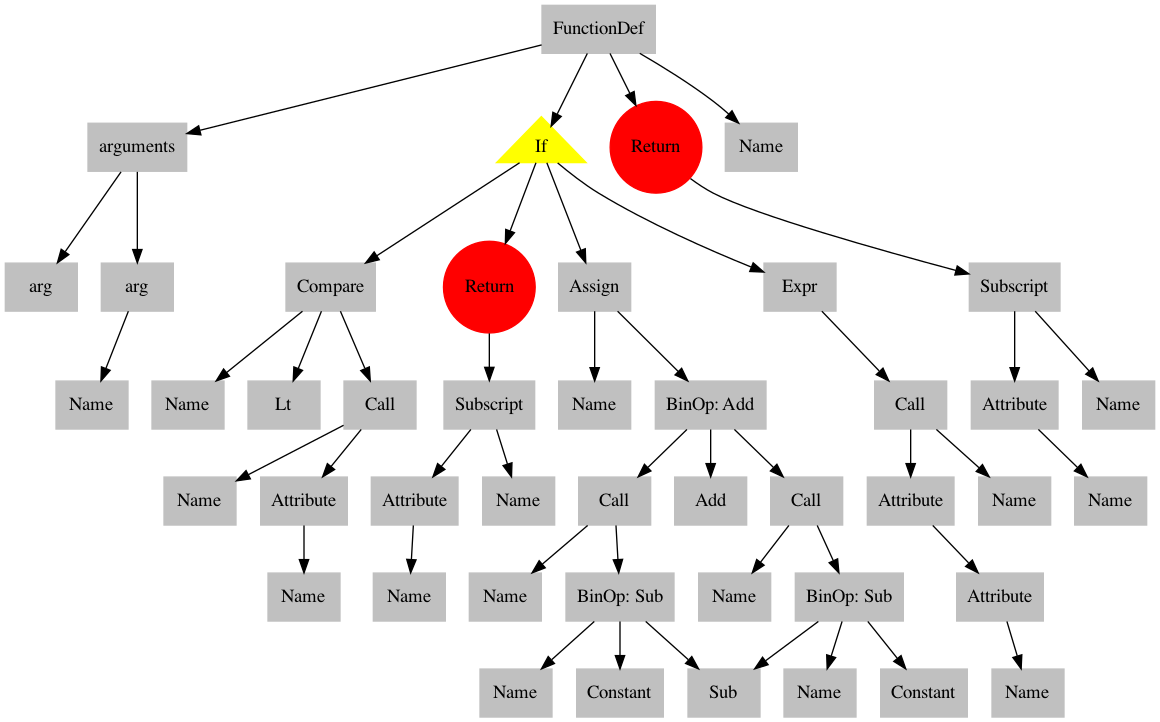
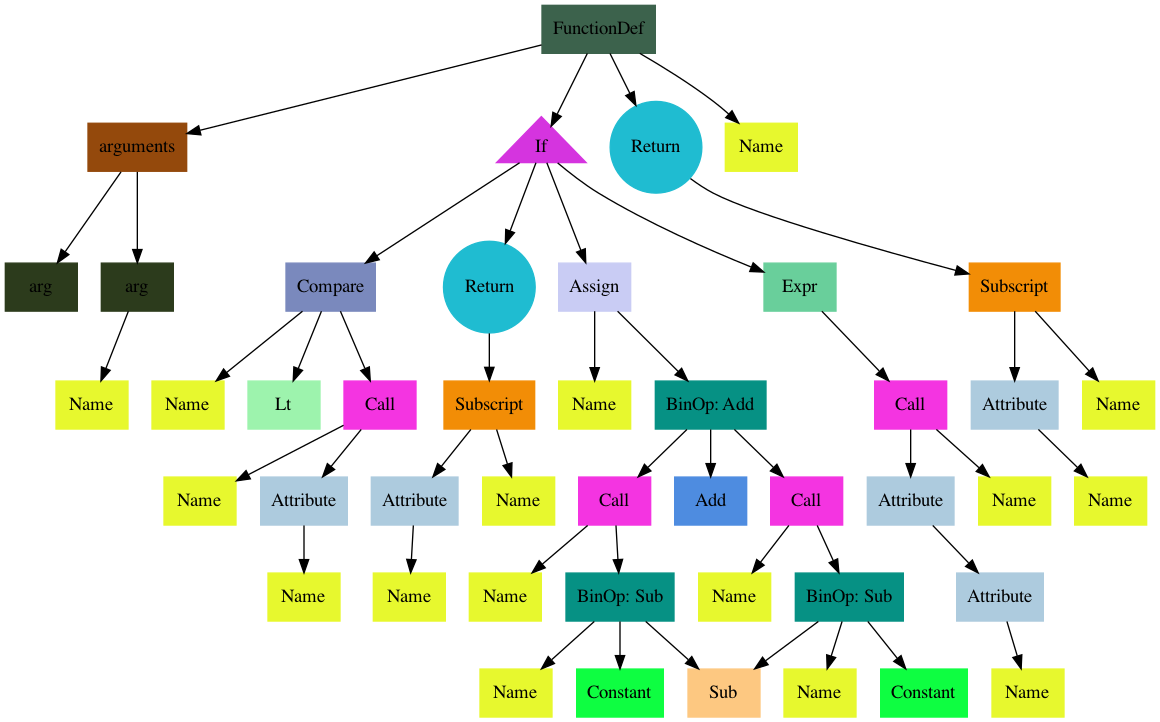
add colors

diff --git a/DeepPython/hw1/graph_editor.py b/DeepPython/hw1/graph_editor.py
@@ -1,0 +1,69 @@
+import ast
+import random
+from collections import defaultdict
+from typing import List
+
+import networkx as nx
+
+
+class ASTGraphEditor:
+    def __init__(self, colors_seed: int = 239):
+        class_names = [
+            ast.FunctionDef, ast.If, ast.Return, ast.BinOp,
+            ast.arguments, ast.arg, ast.Compare, ast.Load,
+            ast.Name, ast.Attribute, ast.Assign, ast.Module,
+            ast.Constant, ast.Expr, ast.Call, ast.Subscript,
+            ast.Sub, ast.Lt, ast.Add, ast.Assign, ast.Store,
+        ]
+        self.class_colors = defaultdict(lambda: "gray")
+        random.seed(colors_seed)
+        for class_name in class_names:
+            r = random.randint(0, 255)
+            g = random.randint(0, 255)
+            b = random.randint(0, 255)
+            self.class_colors[class_name] = '#%02x%02x%02x' % (r, g, b)
+
+    def get_node_description(self, node: ast.AST):
+        label = node.__class__.__name__
+        color = self.class_colors[node.__class__]
+        shape = "rectangle"
+        style = "filled"
+
+        if isinstance(node, ast.If):
+            shape = "triangle"
+
+        if isinstance(node, ast.Return):
+            shape = "circle"
+
+        if isinstance(node, ast.BinOp):
+            label = f'{node.__class__.__name__}: {node.op.__class__.__name__}'
+
+        return {"label": label, "color": color, "shape": shape, "style": style}
+
+    def build_graph(self, node: ast.AST) -> nx.Graph:
+        graph = nx.DiGraph()
+        return self.add_node(node, graph)
+
+    def add_node(self, node: ast.AST, graph: nx.Graph) -> nx.Graph:
+        graph.add_node(node, **self.get_node_description(node))
+        for _, value in ast.iter_fields(node):
+            if isinstance(value, list):
+                for item in value:
+                    if isinstance(item, ast.AST):
+                        graph.add_edge(node, item)
+                        self.add_node(item, graph)
+
+            elif isinstance(value, ast.AST):
+                graph.add_edge(node, value)
+                self.add_node(value, graph)
+        return graph
+
+    @staticmethod
+    def delete_nodes(graph: nx.Graph, deleted_nodes: List[ast.AST]) -> nx.Graph:
+        candidates = []
+        for node in graph.nodes:
+            if node.__class__ in deleted_nodes:
+                candidates.append(node)
+        # плохо что inplace
+        graph.remove_nodes_from(candidates)
+        return graph

diff --git a/DeepPython/hw1/ast_visualization.py b/DeepPython/hw1/ast_visualization.py
@@ -2,70 +2,21 @@ import ast
 import inspect
 import os
 import textwrap
-from typing import List, Callable
+from typing import Callable
 
 import networkx as nx
 
 from fibonacci import Fibonacci
+from graph_editor import ASTGraphEditor
 
 
-class ASTGraphEditor:
-    @staticmethod
-    def get_node_description(node):
-        label = node.__class__.__name__
-        color = "gray"
-        shape = "rectangle"
-        style = "filled"
-
-        if isinstance(node, ast.If):
-            color = "yellow"
-            shape = "triangle"
-
-        if isinstance(node, ast.Return):
-            color = "red"
-            shape = "circle"
-
-        if isinstance(node, ast.BinOp):
-            label = f'{node.__class__.__name__}: {node.op.__class__.__name__}'
-
-        return {"label": label, "color": color, "shape": shape, "style": style}
-
-    def build_graph(self, node):
-        graph = nx.DiGraph()
-        return self.add_node(node, graph)
-
-    def add_node(self, node, graph):
-        graph.add_node(node, **self.get_node_description(node))
-        for _, value in ast.iter_fields(node):
-            if isinstance(value, list):
-                for item in value:
-                    if isinstance(item, ast.AST):
-                        graph.add_edge(node, item)
-                        self.add_node(item, graph)
-
-            elif isinstance(value, ast.AST):
-                graph.add_edge(node, value)
-                self.add_node(value, graph)
-        return graph
-
-    @staticmethod
-    def delete_nodes(graph, deleted_nodes: List[str]):
-        candidates = []
-        for node in graph.nodes:
-            if node.__class__.__name__ in deleted_nodes:
-                candidates.append(node)
-        # плохо что inplace
-        graph.remove_nodes_from(candidates)
-        return graph
-
-
-def ast_visualization(function: Callable, save_path: str):
+def ast_visualization(function: Callable, save_path: str) -> None:
     function_text = textwrap.dedent(inspect.getsource(function))
     ast_tree = ast.parse(function_text)
 
     ast_graph_editor = ASTGraphEditor()
     graph = ast_graph_editor.build_graph(ast_tree)
-    graph = ast_graph_editor.delete_nodes(graph, ["Store", "Module", "Load"])
+    graph = ast_graph_editor.delete_nodes(graph, [ast.Store, ast.Module, ast.Load])
 
     p = nx.drawing.nx_pydot.to_pydot(graph)
     p.write_png(os.path.join(save_path, "ast.png"))
